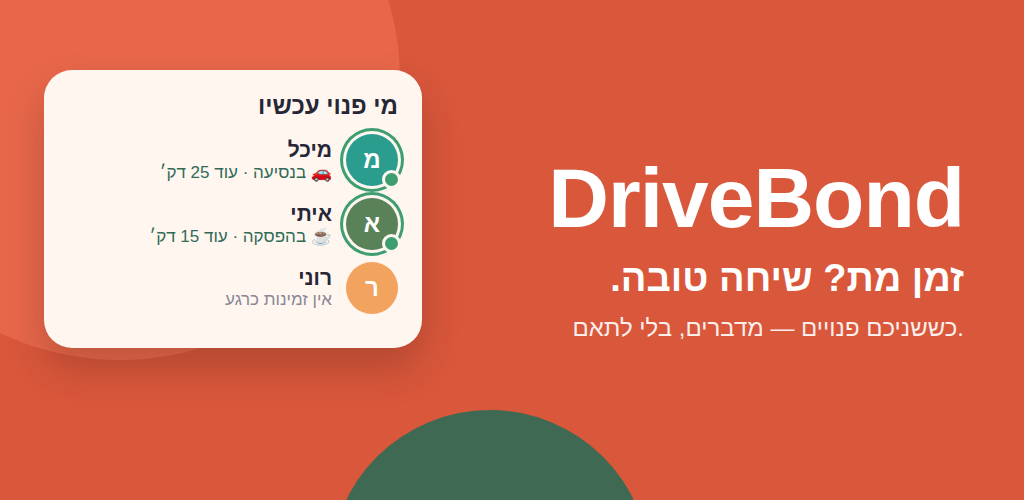
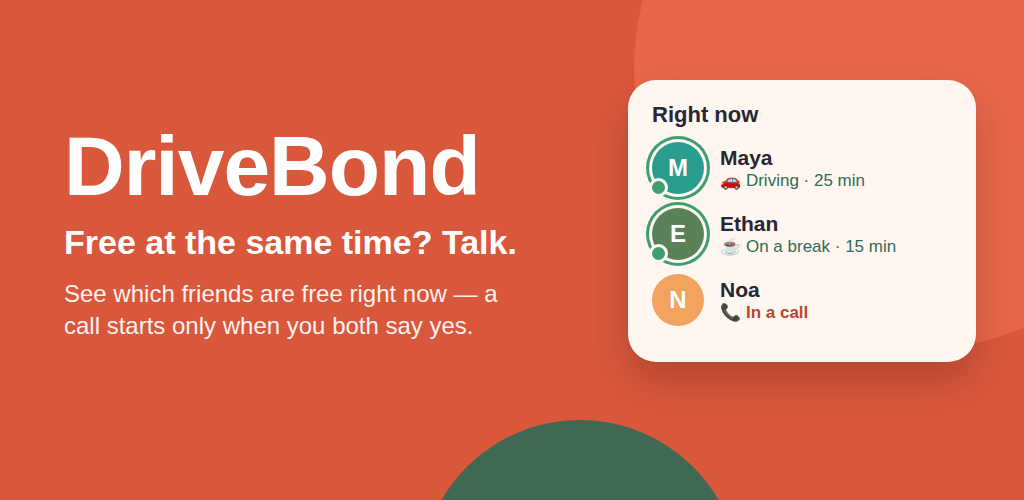
Store images: friend in a call, English feature graphic
Claude-Session: https://claude.ai/code/session_019HnZgoGDmsrboiZZSe31zJ

diff --git a/store_assets/feature.html b/store_assets/feature.html
@@ -1,27 +1,28 @@
-<!doctype html><html lang="he"><head><meta charset="utf-8">
+<!doctype html><html lang="en"><head><meta charset="utf-8">
 <style>
 html,body{margin:0}
 body{width:1024px;height:500px;background:#D9573B;font-family:sans-serif;color:#fff;overflow:hidden;position:relative}
-.c1{position:absolute;width:560px;height:560px;border-radius:50%;background:#E8674A;left:-160px;top:-200px}
-.c2{position:absolute;width:320px;height:320px;border-radius:50%;background:#2F6B57;left:330px;bottom:-230px;opacity:.9}
-.card{position:absolute;left:44px;top:70px;width:330px;background:#FFF7EF;border-radius:28px;padding:22px 24px;box-shadow:0 20px 40px rgba(0,0,0,.18);color:#262636;direction:rtl}
-.card h3{margin:0 0 14px;font-size:24px}
-.row{display:flex;align-items:center;gap:14px;margin:12px 0}
+.c1{position:absolute;width:560px;height:560px;border-radius:50%;background:#E8674A;right:-170px;top:-210px}
+.c2{position:absolute;width:320px;height:320px;border-radius:50%;background:#2F6B57;left:420px;bottom:-240px;opacity:.9}
+.txt{position:absolute;left:64px;top:118px}
+h1{font-size:84px;margin:0;font-weight:800;letter-spacing:-1px}
+p{font-size:34px;margin:8px 0 0;font-weight:700}
+.sub{font-size:24px;opacity:.92;font-weight:400;margin-top:16px;max-width:470px;line-height:1.35}
+.card{position:absolute;right:48px;top:80px;width:300px;background:#FFF7EF;border-radius:28px;padding:22px 24px;box-shadow:0 20px 40px rgba(0,0,0,.18);color:#262636}
+.card h3{margin:0 0 12px;font-size:22px}
+.row{display:flex;align-items:center;gap:16px;margin:14px 0}
 .av{width:52px;height:52px;border-radius:50%;display:flex;align-items:center;justify-content:center;color:#fff;font-weight:800;font-size:24px;position:relative;flex:none}
 .on{box-shadow:0 0 0 3px #FFF7EF,0 0 0 6px #3E9E72}
-.on:after{content:'';position:absolute;width:13px;height:13px;border-radius:50%;background:#3E9E72;border:3px solid #FFF7EF;bottom:-3px;right:-3px}
+.on:after{content:'';position:absolute;width:13px;height:13px;border-radius:50%;background:#3E9E72;border:3px solid #FFF7EF;bottom:-3px;left:-3px}
 .nm{font-weight:700;font-size:21px}
 .st{font-size:17px;color:#2F6B57}
-.off .st{color:#8A8796}
-.txt{position:absolute;right:60px;top:150px;text-align:right}
-h1{font-size:84px;margin:0;font-weight:800;direction:ltr;text-align:right;letter-spacing:-1px}
-p{font-size:38px;margin:10px 0 0;direction:rtl;font-weight:600}
-.sub{font-size:24px;opacity:.9;font-weight:400;margin-top:14px}
+.busy .st{color:#B8462C;font-weight:600}
 </style></head><body><div class="c1"></div><div class="c2"></div>
-<div class="card"><h3>מי פנוי עכשיו</h3>
-<div class="row"><div class="av on" style="background:#2A9D8F">מ</div><div><div class="nm">מיכל</div><div class="st">🚗 בנסיעה · עוד 25 דק׳</div></div></div>
-<div class="row"><div class="av on" style="background:#5A8259">א</div><div><div class="nm">איתי</div><div class="st">☕ בהפסקה · עוד 15 דק׳</div></div></div>
-<div class="row off"><div class="av" style="background:#F2A35E">ר</div><div><div class="nm">רוני</div><div class="st">אין זמינות כרגע</div></div></div>
+<div class="txt"><h1>DriveBond</h1><p>Free at the same time? Talk.</p>
+<div class="sub">See which friends are free right now — a call starts only when you both say yes.</div></div>
+<div class="card"><h3>Right now</h3>
+<div class="row"><div class="av on" style="background:#2A9D8F">M</div><div><div class="nm">Maya</div><div class="st">🚗 Driving · 25 min</div></div></div>
+<div class="row"><div class="av on" style="background:#5A8259">E</div><div><div class="nm">Ethan</div><div class="st">☕ On a break · 15 min</div></div></div>
+<div class="row busy"><div class="av" style="background:#F2A35E">N</div><div><div class="nm">Noa</div><div class="st">📞 In a call</div></div></div>
 </div>
-<div class="txt"><h1>DriveBond</h1><p>זמן מת? שיחה טובה.</p><div class="sub">כששניכם פנויים — מדברים, בלי לתאם.</div></div>
 </body></html>

diff --git a/lib/debug/real_preview.dart b/lib/debug/real_preview.dart
@@ -63,8 +63,14 @@ Future<void> main() async {
       RealCircle(id: '', name: 'חברים מהצבא', memberIds: {yoni.userId!}),
     );
     if (screen != 'driving') {
-      await mom.setAvailability(AvailabilityMode.walking, 40);
+      // Home: three faces fit the card (driving, break, in a call).
+      if (screen != 'home') {
+        await mom.setAvailability(AvailabilityMode.walking, 40);
+      }
       await dana.setAvailability(AvailabilityMode.breakTime, 15);
+      // Free, but on the phone right now.
+      await shira.setAvailability(AvailabilityMode.free, 30);
+      server.phoneCall(shira.userId!, true);
     }
     switch (screen) {
       case 'offer' || 'waiting' || 'connected' || 'feedback':
